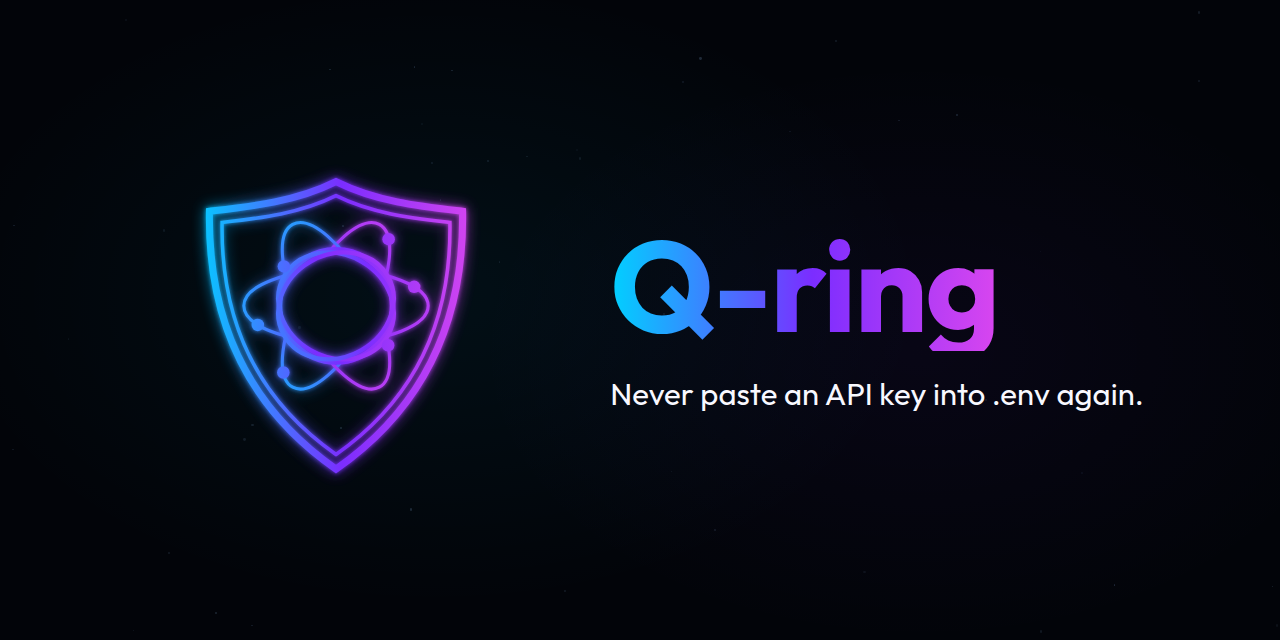
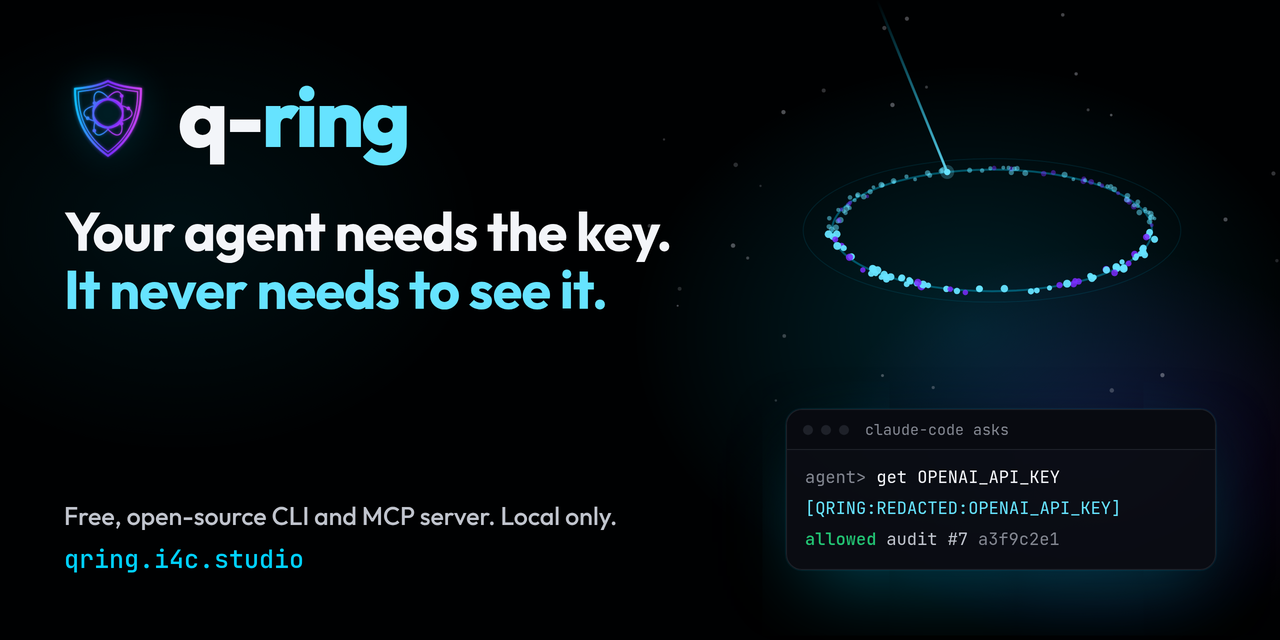
docs(readme): new social card at the top, dashboard text for 0.19.1 (#167)
The README opens with the card the site redesign made (1200x630, the
Quantum skin, "Your agent needs the key. It never needs to see it."),
linked to qring.i4c.studio. The optimized card and the 1280x640 repo
social preview are refreshed from the same source so every copy in
assets/ shows the current design; the GitHub repo setting has to be
uploaded by hand.

The dashboard section now says what 0.19.1 shipped: the shared Quantum
skin and token set, flat cards and KPI tiles, the three states of the
canary card, the policy mode chips and the console-style audit feed, and
the status_dashboard tool row notes that an agent-started dashboard never
sees canaries.

Claude-Session: https://claude.ai/code/session_01FkMFzJ1Zs2thapqFsdGL2K

diff --git a/README.md b/README.md
@@ -1,5 +1,7 @@
 <div align="center">
-  <img src="https://raw.githubusercontent.com/I4cTime/q-ring/main/assets/social-card-optimized.jpg" alt="q-ring — never paste an API key into .env again" width="100%" />
+  <a href="https://qring.i4c.studio">
+    <img src="https://raw.githubusercontent.com/I4cTime/q-ring/main/assets/social-card-1200x630.jpg" alt="q-ring - your agent needs the key. It never needs to see it. Free, open-source CLI and MCP server. Local only." width="100%" />
+  </a>
 </div>
 
 # q-ring
@@ -915,7 +917,9 @@ qring agent --once
 
 ### Quantum Status Dashboard — Live Monitoring
 
-Launch a real-time dashboard in your browser that turns the entire quantum subsystem into one glanceable page. It's a single self-contained HTML page served locally — no cloud, no config, fully offline — built as a Preact + htm app (runtime bundled and inlined). It streams updates every 5 seconds via Server-Sent Events and diffs the DOM in place, so data refreshes without re-running entrance animations and your search input, caret, and scroll position are preserved across ticks.
+Launch a real-time dashboard in your browser that turns the entire quantum subsystem into one glanceable page. It's a single self-contained HTML page served locally — no cloud, no config, fully offline — built as a Preact + htm app (runtime bundled and inlined). It streams updates every 5 seconds via Server-Sent Events and diffs the DOM in place, so data refreshes without a flash and your search input, caret, and scroll position are preserved across ticks.
+
+Since 0.19.1 the page wears the same Quantum skin as [qring.i4c.studio](https://qring.i4c.studio): one token set (`src/core/dashboard-tokens.ts`, mirrored from the site's stylesheet) drives the palette, radii and motion, cards are flat with a 1 px border, the KPI strip is a row of tiles, and the layout holds at 768 px and 480 px with no horizontal scroll. Pulses and transitions stop under `prefers-reduced-motion`.
 
 What you get:
 
@@ -923,15 +927,15 @@ What you get:
 - **Health summary** — donut chart of healthy / stale / expired / no-decay secrets plus per-scope counts (global / project / team / org).
 - **Environment** — wavefunction collapse details: detected env, source, branch, and any project context.
 - **Manifest** — `.q-ring.json` summary with declared / required / missing / expired / stale keys.
-- **Policy** — at-a-glance view of MCP, exec, and secret policies (allow/deny tools, deny keys/tags, allow/deny commands, approval & rotation requirements).
+- **Policy** — at-a-glance view of MCP, exec, and secret policies (allow/deny tools, deny keys/tags, allow/deny commands, approval & rotation requirements), each rule's mode shown as a chip.
 - **Secrets table** — searchable, sortable view of every secret (key, scope, env, type, decay, tags, last read), with quick chips for `expired`, `stale`, and `protected` filters. Press `/` to focus the search box.
 - **Quantum cards** — decay timers, superposition states, entanglement pairs, and active quantum tunnels.
 - **Approvals & hooks** — live list of valid (and tampered) approval grants and every registered hook with its match summary.
-- **Canary** — planted honeytokens, armed or tripped in the last 24 hours, with who tripped them (hidden on a dashboard an MCP agent starts).
+- **Canary** — your planted honeytokens in three states: none yet (a one-line explainer and the `qring canary plant <KEY>` hint), armed (each key with a pulsing dot), or tripped in the last 24 hours (danger border, who tripped it and when). A dashboard an MCP agent starts never renders this card, the same way its audit feed drops canary events.
 - **Agent sessions (24h)** — one expandable row per MCP client or airlock session: agent label, source, window, event and denial counts, recent events.
 - **Agent memory** — count of encrypted memory keys persisted at `~/.config/q-ring/agent-memory.enc`.
 - **Anomaly alerts** — burst reads, off-hours access, tampered audit chain, and other suspicious patterns.
-- **Audit log (24h)** — hash-chain status pill (`intact` / `broken at #n`) and a filterable feed with action chips (`read`/`write`/`delete`/`export`), source chips (`cli`/`mcp`/`hook`/`agent`), and a free-text filter.
+- **Audit log (24h)** — hash-chain status pill (`intact` / `broken at #n`) and a console-style feed with action chips (`read`/`write`/`delete`/`export`), source chips (`cli`/`mcp`/`hook`/`agent`), and a free-text filter.
 
 Top-bar controls let you **pause** SSE updates (handy while reading the audit feed), **refresh** on demand, or jump to the raw JSON snapshot at `/api/status`. Keyboard shortcuts: `/` focus secrets search · `P` pause · `R` refresh.
 
@@ -1036,7 +1040,7 @@ q-ring includes a full MCP server with 46 tools for AI agent integration.
 | `verify_audit_chain` | Recompute the audit hash chain and report the first break point if tampered |
 | `export_audit` | Export audit events as jsonl, json, or csv for archival/SIEM |
 | `health_check` | Read-only scope sweep: decay/stale/expired counts plus current anomalies |
-| `status_dashboard` | Start a local SSE dashboard with live KPIs, secrets, hooks, and audit feed (returns a token-gated `127.0.0.1` URL) |
+| `status_dashboard` | Start a local SSE dashboard with live KPIs, secrets, hooks, and audit feed (returns a token-gated `127.0.0.1` URL; the canary card and canary audit events are hidden from a dashboard an agent starts) |
 | `agent_scan` | Multi-project health pass with optional `autoRotate` for expired secrets |
 
 ### Governance & Policy Tools
